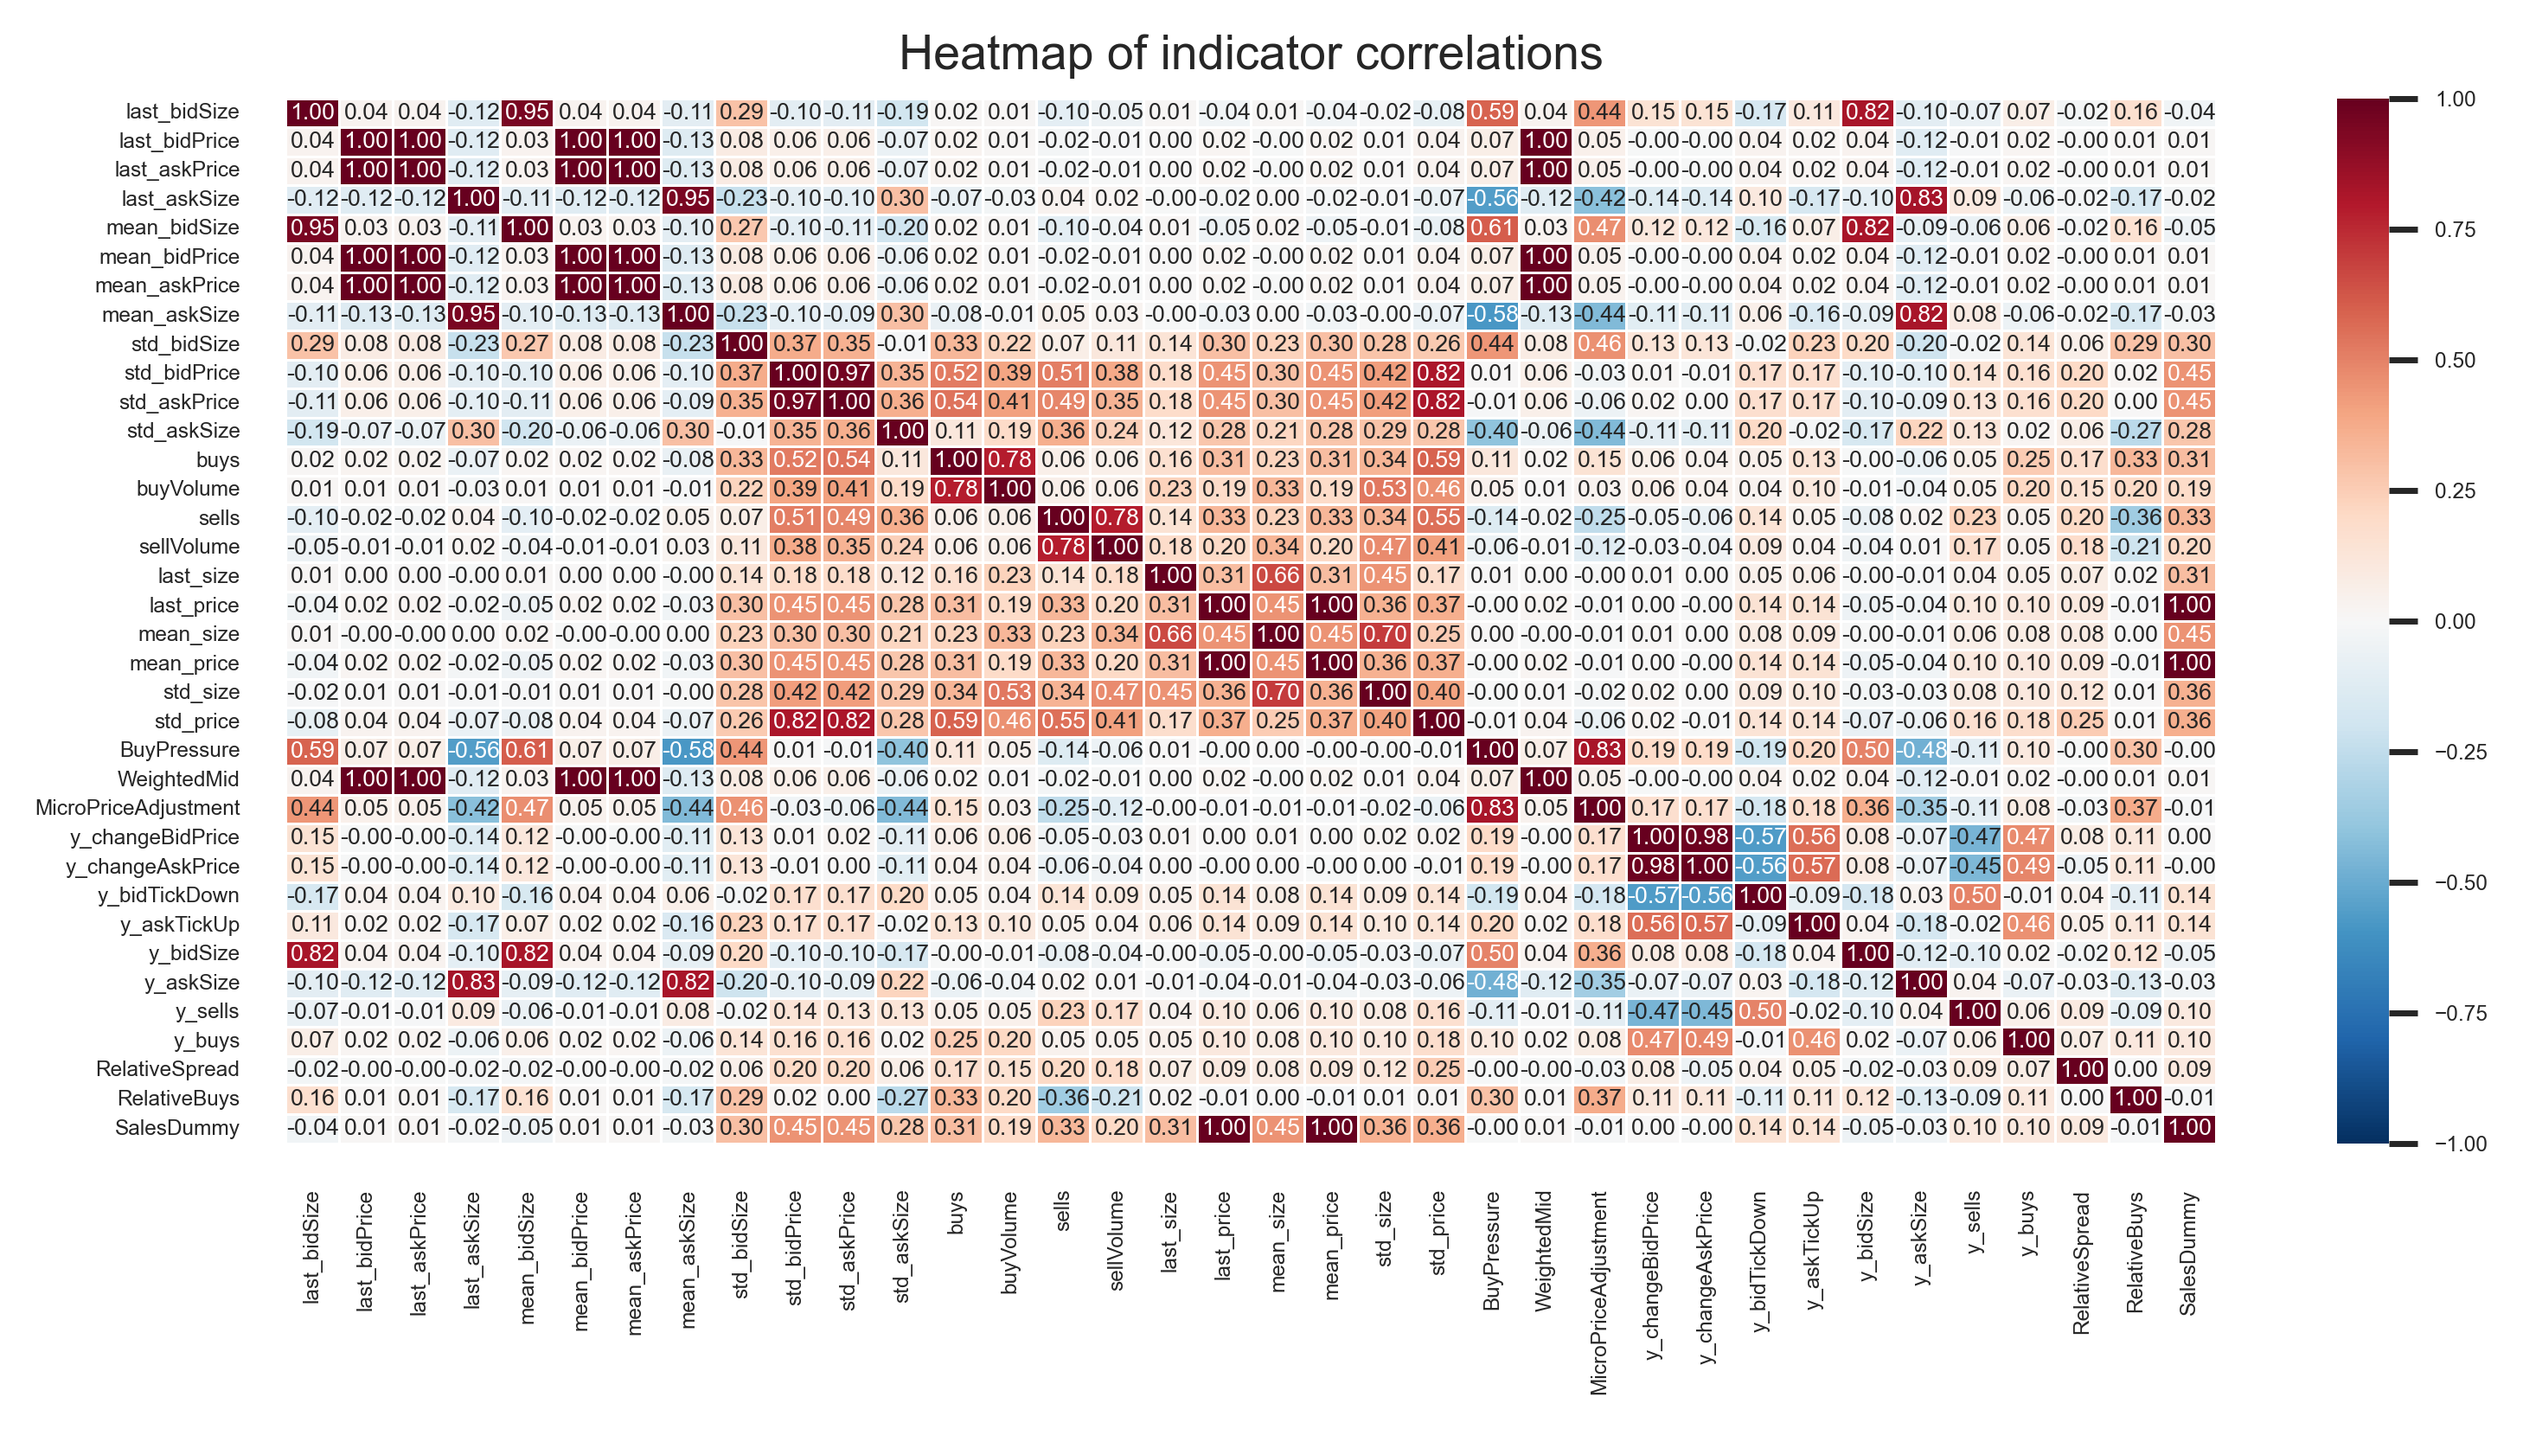
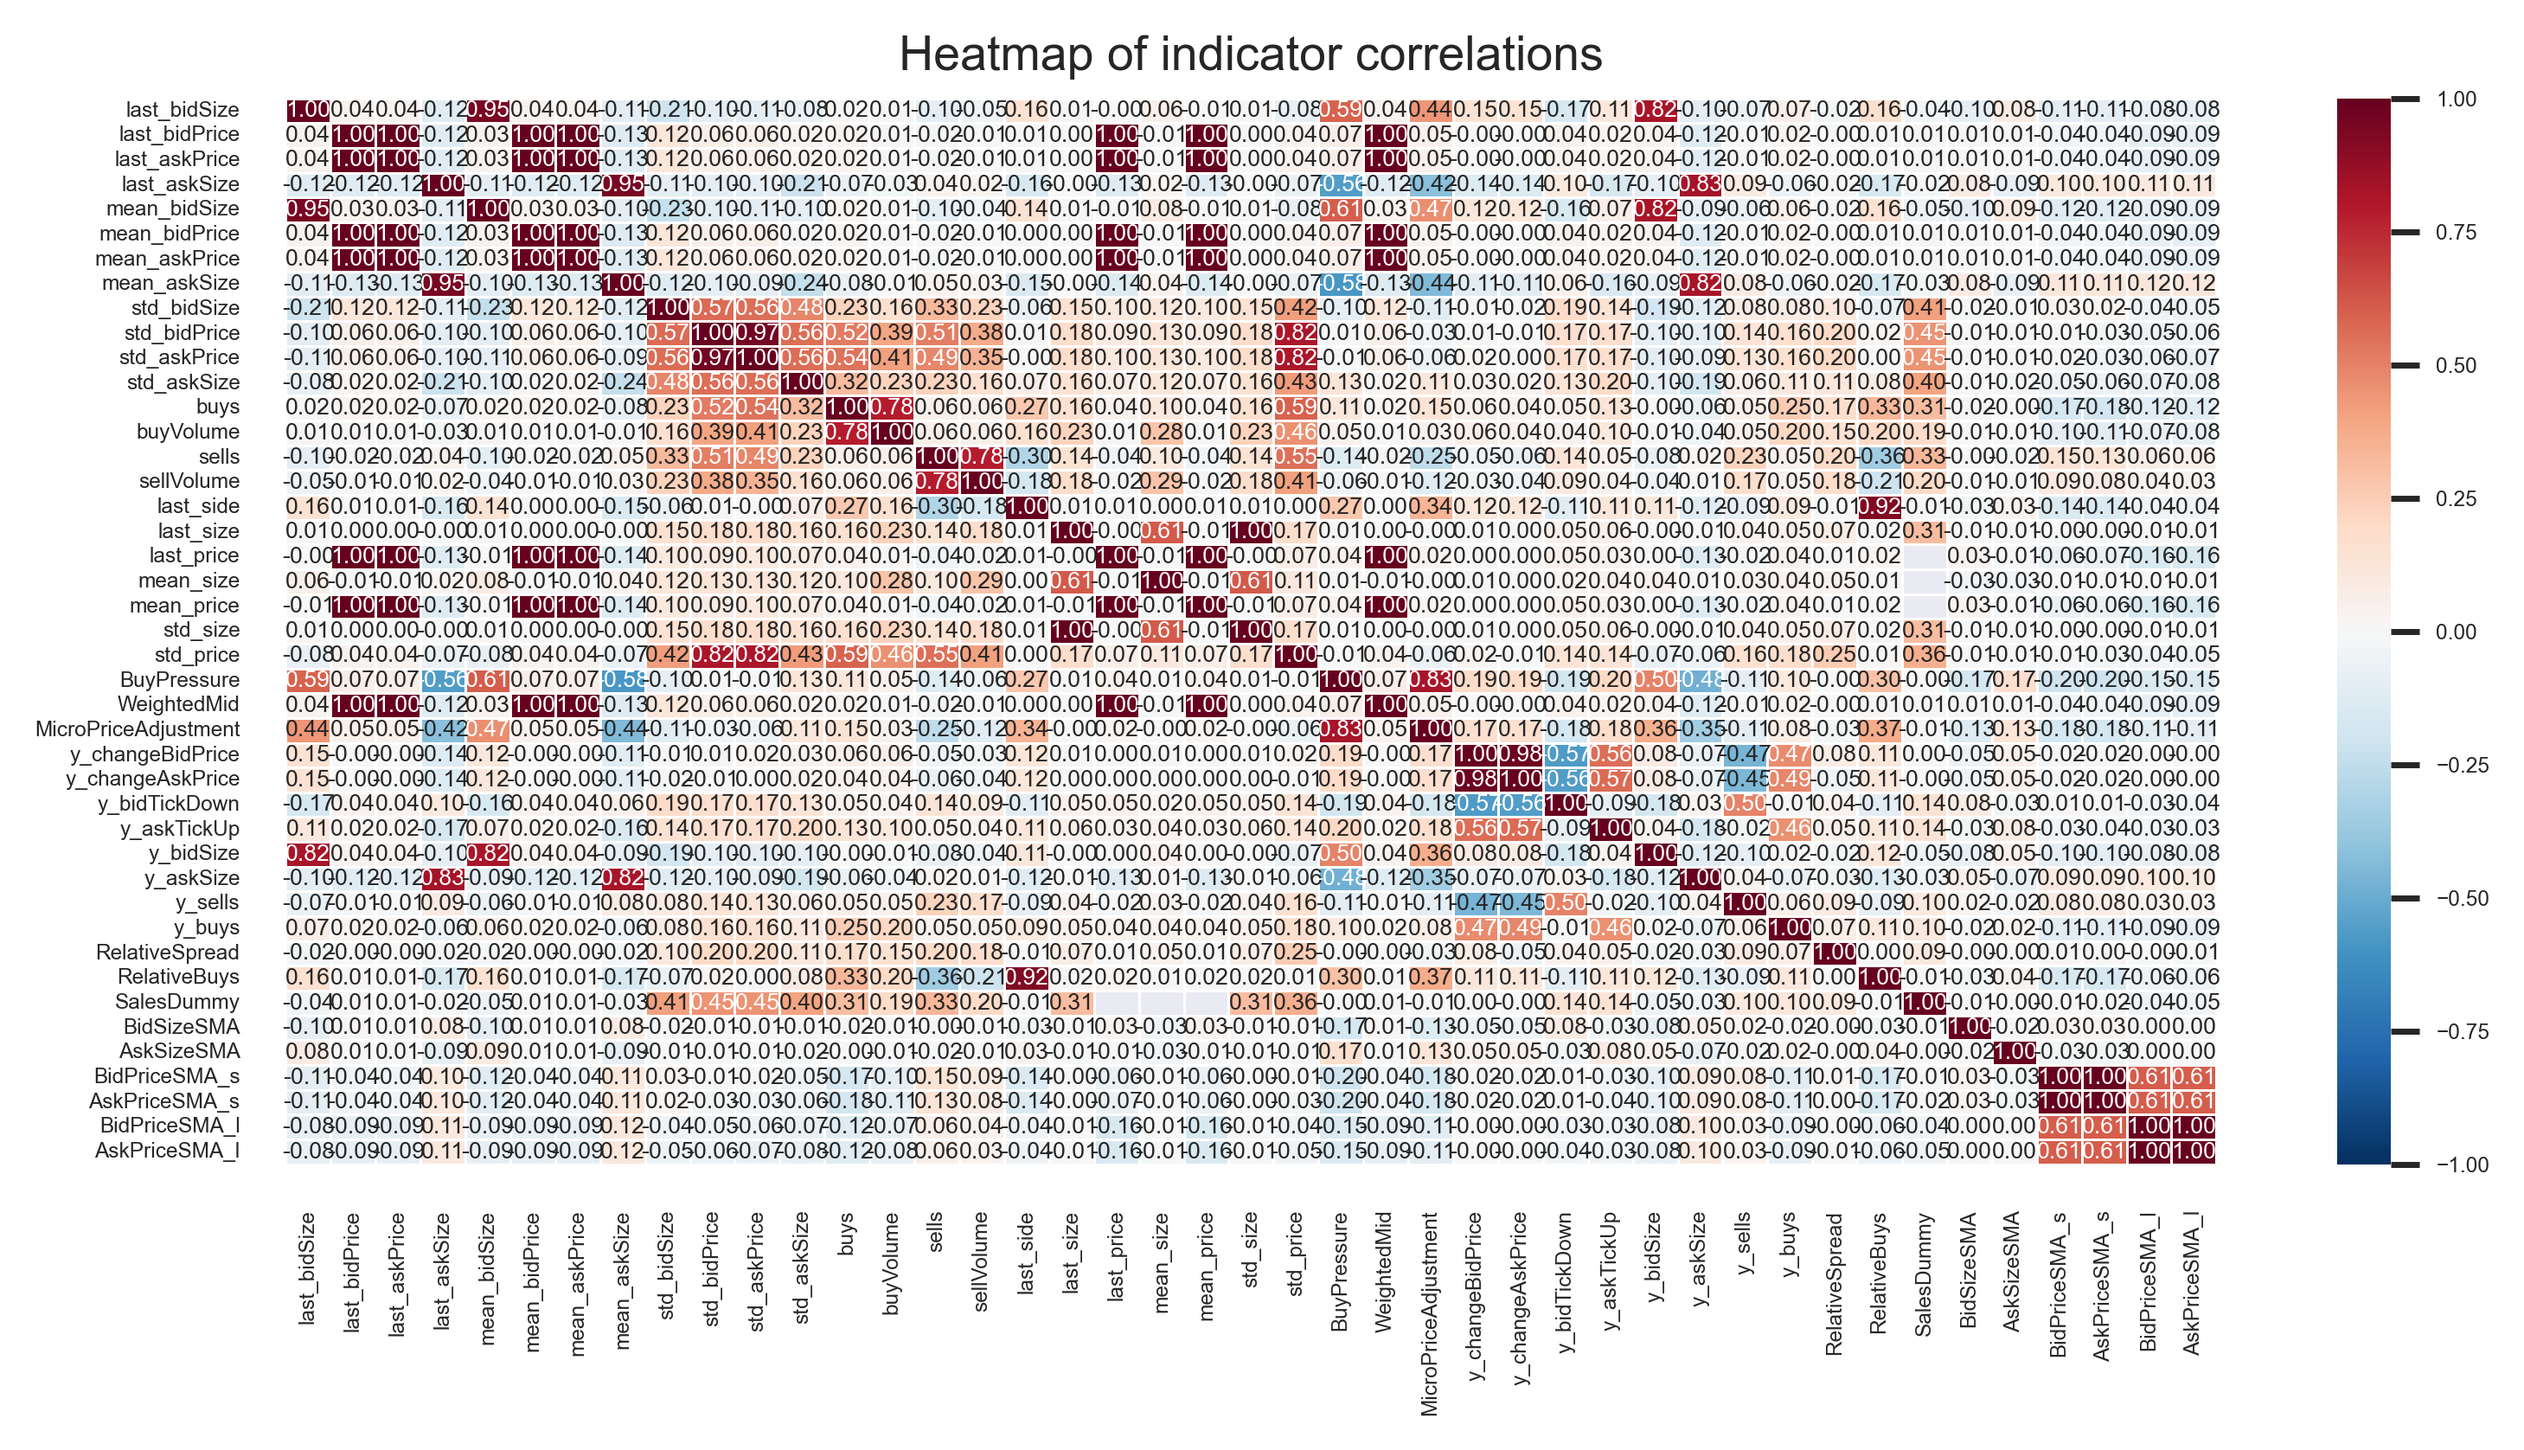
Clean columns, and added excel file for X column input

diff --git a/main.py b/main.py
@@ -114,6 +114,18 @@ def sales_dummy(df):
     
     return df
 
+def relative_smas(df, method='mean', short=60, long=300):
+    df['BidSizeSMA'] = df[method+'_bidSize'].rolling(short, min_periods=1).mean() / df[method+'_bidSize']
+    df['AskSizeSMA'] = df[method+'_askSize'].rolling(short, min_periods=1).mean() / df[method+'_askSize']
+    
+    df['BidPriceSMA_s'] = df[method+'_bidPrice'].rolling(short, min_periods=1).mean() / df[method+'_bidPrice']
+    df['AskPriceSMA_s'] = df[method+'_askPrice'].rolling(short, min_periods=1).mean() / df[method+'_askPrice']
+    
+    df['BidPriceSMA_l'] = df[method+'_bidPrice'].rolling(long, min_periods=1).mean() / df[method+'_bidPrice']
+    df['AskPriceSMA_l'] = df[method+'_askPrice'].rolling(long, min_periods=1).mean() / df[method+'_askPrice']
+    
+    return df
+
 def y_vars(df):
     # Define ticksizes
     ticksize = {'XBTUSD':0.5, 'ETHUSD':0.05, 'BCHUSD':0.05}
@@ -133,6 +145,30 @@ def y_vars(df):
     
     return df
 
+def clean_columns(df):
+    # Define ticksizes
+    ticksize = {'XBTUSD':0.5, 'ETHUSD':0.05, 'BCHUSD':0.05}
+    symbol = df.iloc[0].at['symbol']
+    
+    df['std_bidSize'] /= df['mean_bidSize']
+    df['std_askSize'] /= df['mean_askSize']
+    
+    # Sell -> -1, Buy -> 1, nan -> 0
+    df['last_side'] = [0 if pd.isna(x) else 1 if x=='Buy' else -1 for x in df['last_side']]
+    
+    df['last_size'] = df['last_size'].fillna(0)
+    df['std_size'] = df['last_size'].fillna(0)
+    
+    df['std_price'] = df['std_price'].fillna(0) / ticksize[symbol]
+    
+    df['MicroPriceAdjustment'] /= ticksize[symbol]
+    
+    return df
+
+def normalize_x(df):
+    # TODO: add normalization for each column
+    
+    return df
 
 # Read files
 file1 = '../quote_20220318.csv'
@@ -187,20 +223,39 @@ xbt = sales_dummy(xbt)
 eth = sales_dummy(eth)
 bch = sales_dummy(bch)
 
+# Calculate relative moving averages
+xbt = relative_smas(xbt)
+eth = relative_smas(eth)
+bch = relative_smas(bch)
+
+# Clean column values
+xbt = clean_columns(xbt)
+eth = clean_columns(eth)
+bch = clean_columns(bch)
+
+
 # HISTOGRAMS
 
-for i, col in enumerate(bch.columns):
-    if i > 1:
-        plt.figure(i)
-        plt.hist(np.log(bch[col].dropna()+1), bins=30)
-        plt.title("log_"+col)
-        plt.show()
+# for i, col in enumerate(bch.columns):
+#     if i > 1:
+#         plt.figure(i)
+#         plt.hist(np.log(bch[col].dropna()+1), bins=30)
+#         plt.title("log_"+col)
+#         plt.show()
 
-plt.figure()
-plt.hist((bch['MicroPriceAdjustment']-bch['MicroPriceAdjustment'].mean())/np.std(bch['MicroPriceAdjustment']), bins=30)
-plt.title('MicroPriceAdjustement')
-plt.show()   
+# plt.figure()
+# plt.hist((bch['MicroPriceAdjustment']-bch['MicroPriceAdjustment'].mean())/np.std(bch['MicroPriceAdjustment']), bins=30)
+# plt.title('MicroPriceAdjustement')
+# plt.show()   
 
+# a = 'BidPriceSMA_l'
+# plt.hist(xbt[a], bins=100)
+# plt.show()
+
+# plt.hist(np.log(xbt[a]), bins=100)
+# plt.show()
+
+# pd.qcut(xbt[a], q=[0,.10,.5,.90,1]).value_counts()
 
 # HEATMAP
 
@@ -215,9 +270,21 @@ plotdefaults()
 
 # PREDICTIONS
 
-X = ...
-y = ...
-X_train, X_test, y_train, y_test = train_test_split(X, y, test_size=0.25, shuffle=False)
+# Get X columns from file
+file3 = 'x_values.xlsx'
+sheet = 'X_indicators'
+x_columns = pd.read_excel(file3, sheet_name=sheet, header=None)
+x_columns = x_columns[0].tolist()
+
+# Get y columns
+y_columns = [col for col in xbt.columns if col[:2]=='y_']
+
+# Get X and y (NOTE: here only xbt, add others later)
+X = xbt[x_columns]
+y = xbt[y_columns]
+
+
+# X_train, X_test, y_train, y_test = train_test_split(X, y, test_size=0.25, shuffle=False)
  
 
 # Linear Regression
